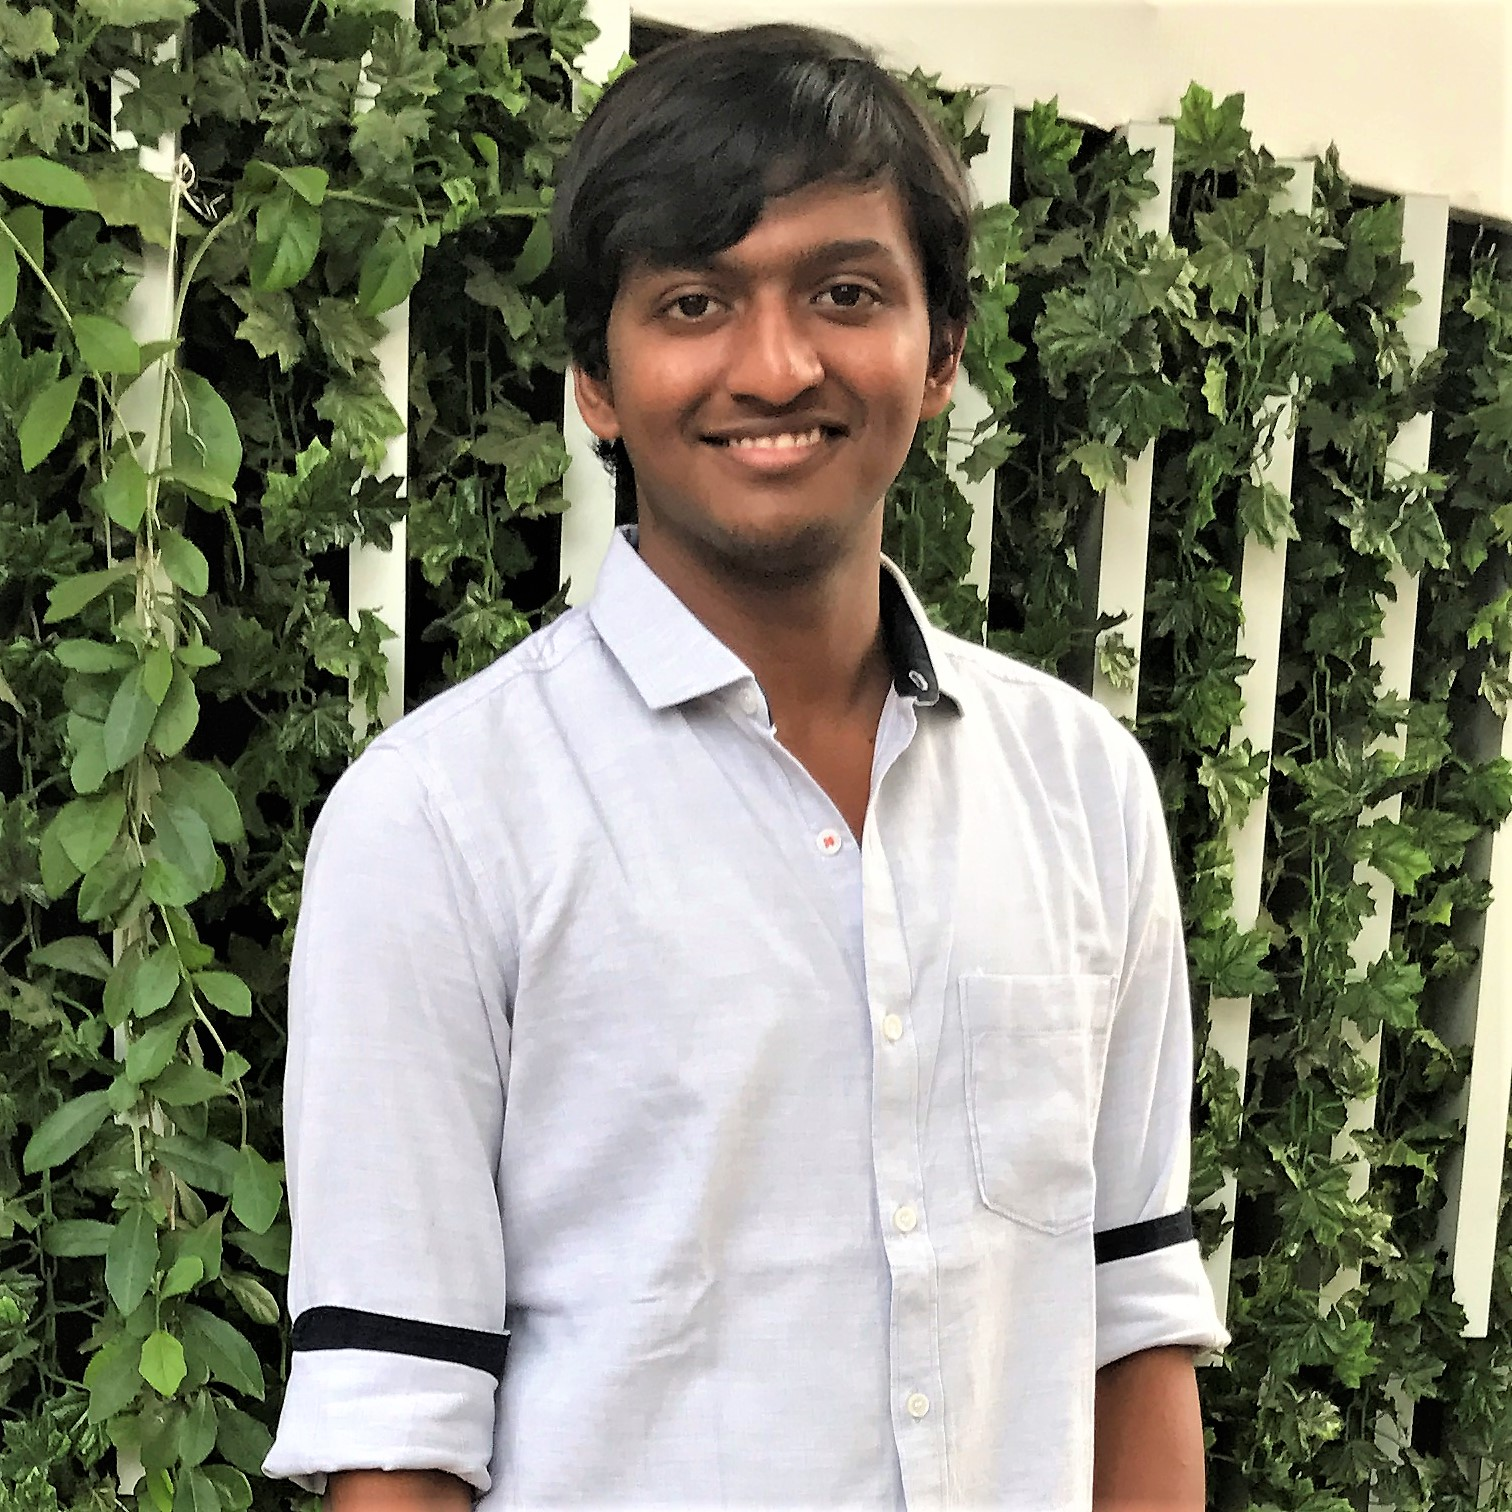
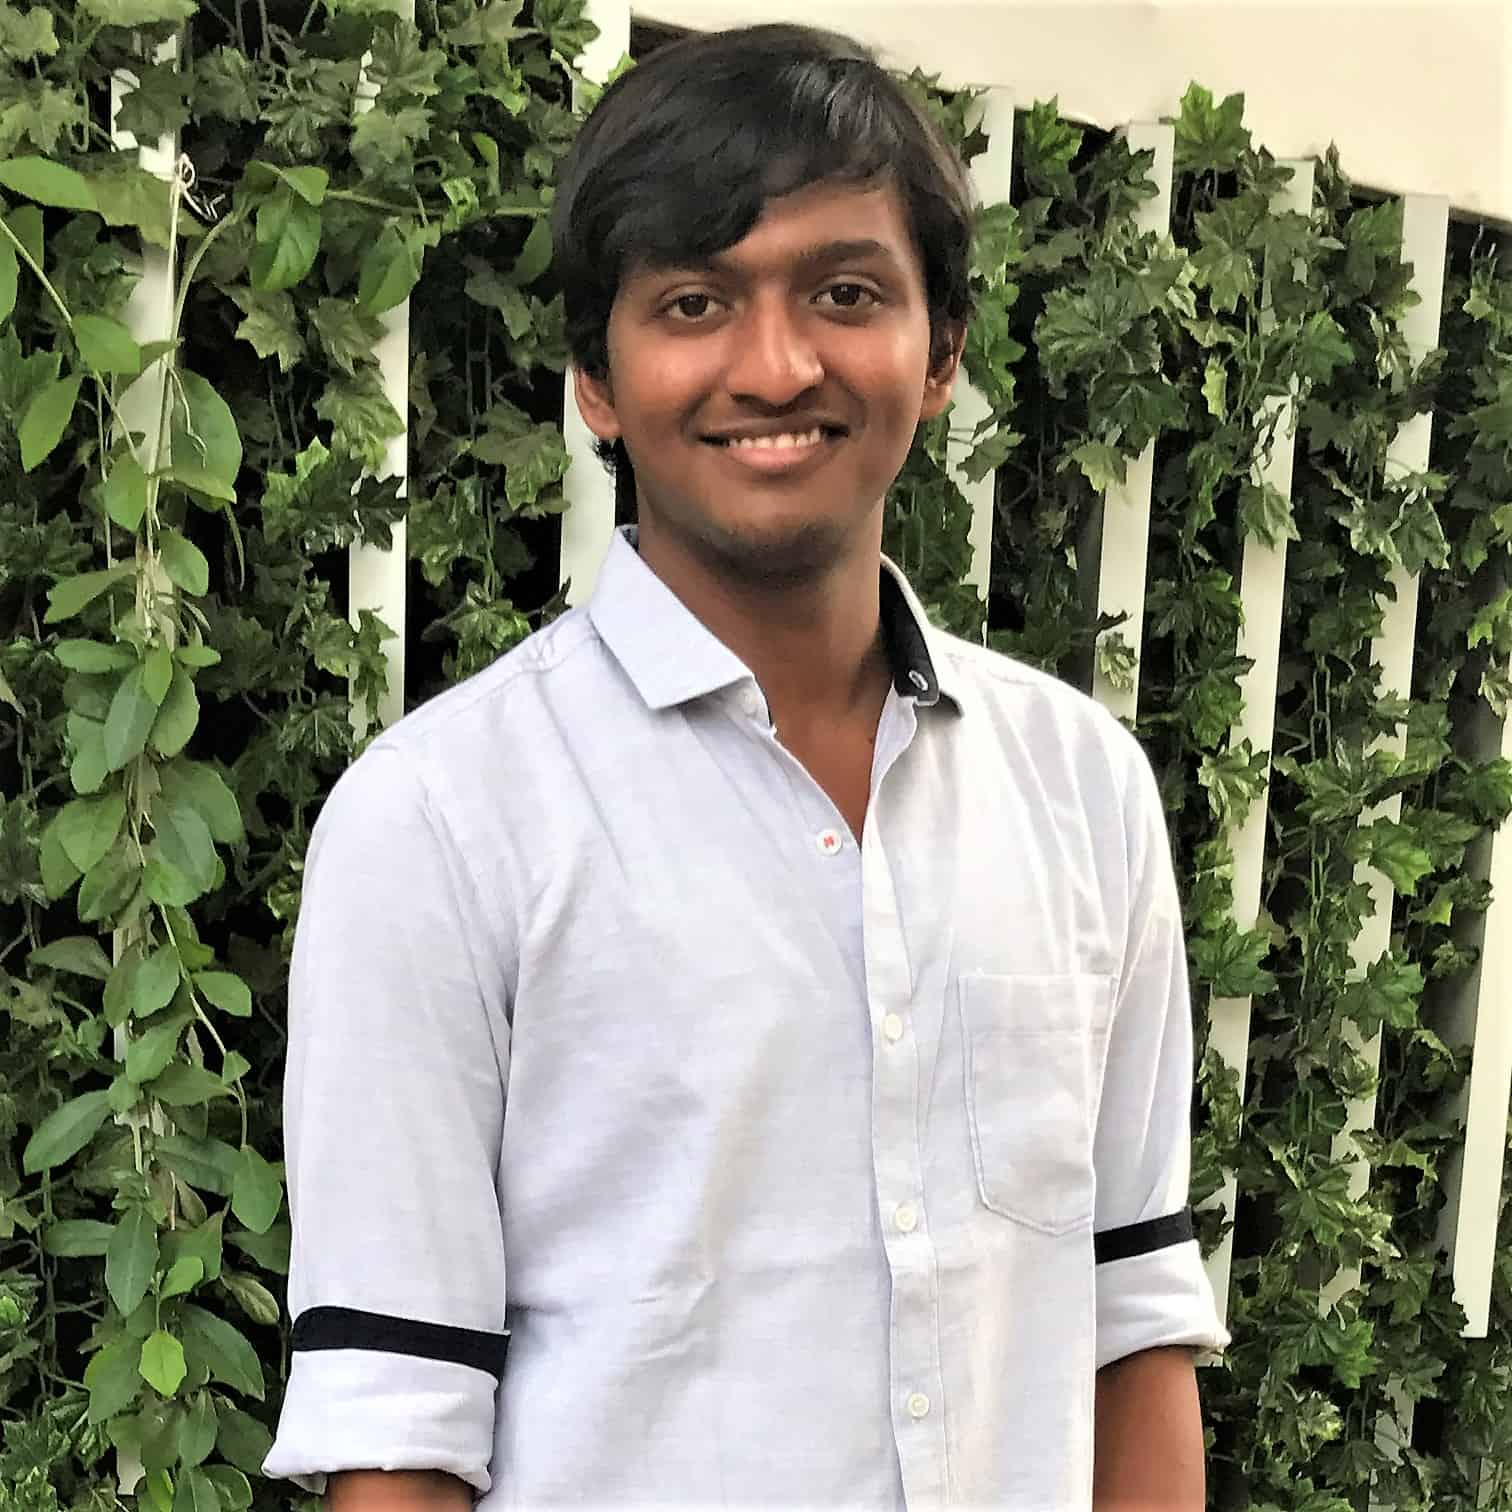
compressed images for fast loading

diff --git a/Events/induction_2017.php b/Events/induction_2017.php
@@ -44,10 +44,10 @@
                 </ol>
             </div>
             <br><br>                   
-                conscious efforts were made by the organisers to keep the session two sided. Informal interaction helped the students overcome their hesitation and cast a doubt on domains being covered . Active participation from students was evident during the enitre induction. In this manner the productivity of the induction attained a different milestone.
+                Conscious efforts were made by the organisers to keep the session two sided. Informal interaction helped the students overcome their hesitation and cast a doubt on domains being covered . Active participation from students was evident during the enitre induction. In this manner the productivity of the induction attained a different milestone.
          </div>
 
-        <!-- Ninja Script JS Code: -->
+        <!-- Ninja Script JS Code:-->
         <!--start-->
         <div id="ninja-slider">
             <div class="slider-inner">

diff --git a/home.php b/home.php
@@ -248,7 +248,7 @@
 				<div class="col s12 m3">
 					<div class="card card-avatar" style="height:310px;">
 						<div class="waves-effect waves-block waves-light">
-							<img class="activator" src="img/team/ishani.png">
+							<img class="activator" src="img/team/ishani.jpg">
 						</div>
 						<div class="card-content">
 							<span class="card-title activator grey-text text-darken-4">Ishani Parkar
@@ -290,7 +290,7 @@
 	<!--work-->
 	<div class="section scrollspy" id="work">
 		<div class="container">
-			<h2 class = "topic">Events and Project </h2>
+			<h2 class = "topic">Events and Projects </h2>
 			<div class="row">
 				<div class="col s12 m4 l4">
 					<div class="card">
